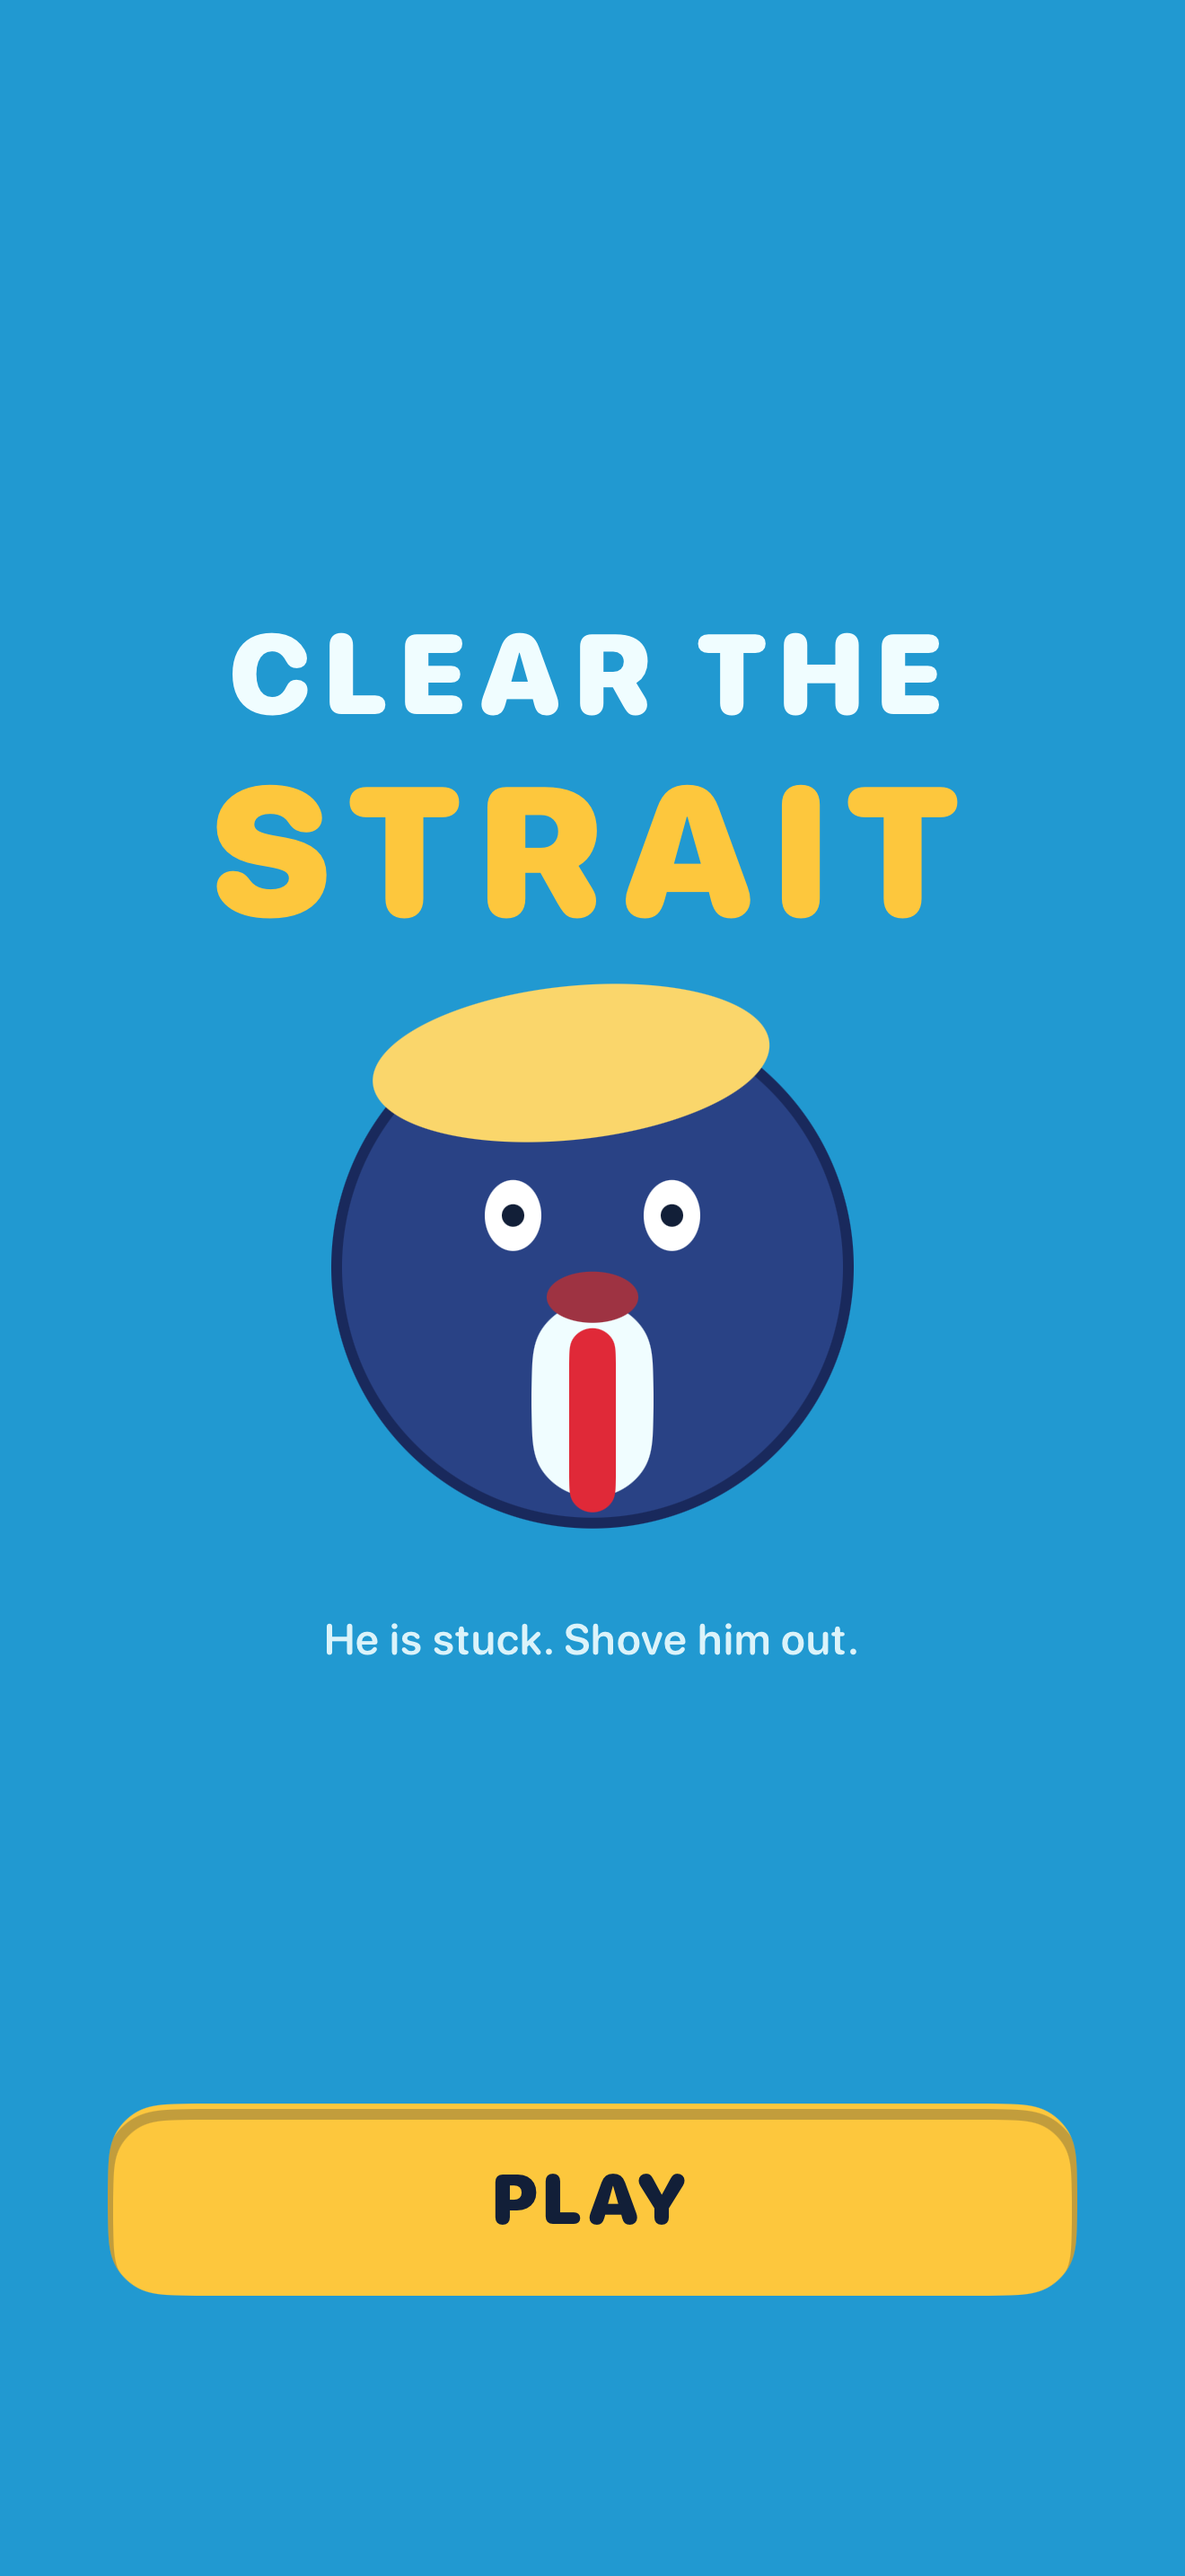
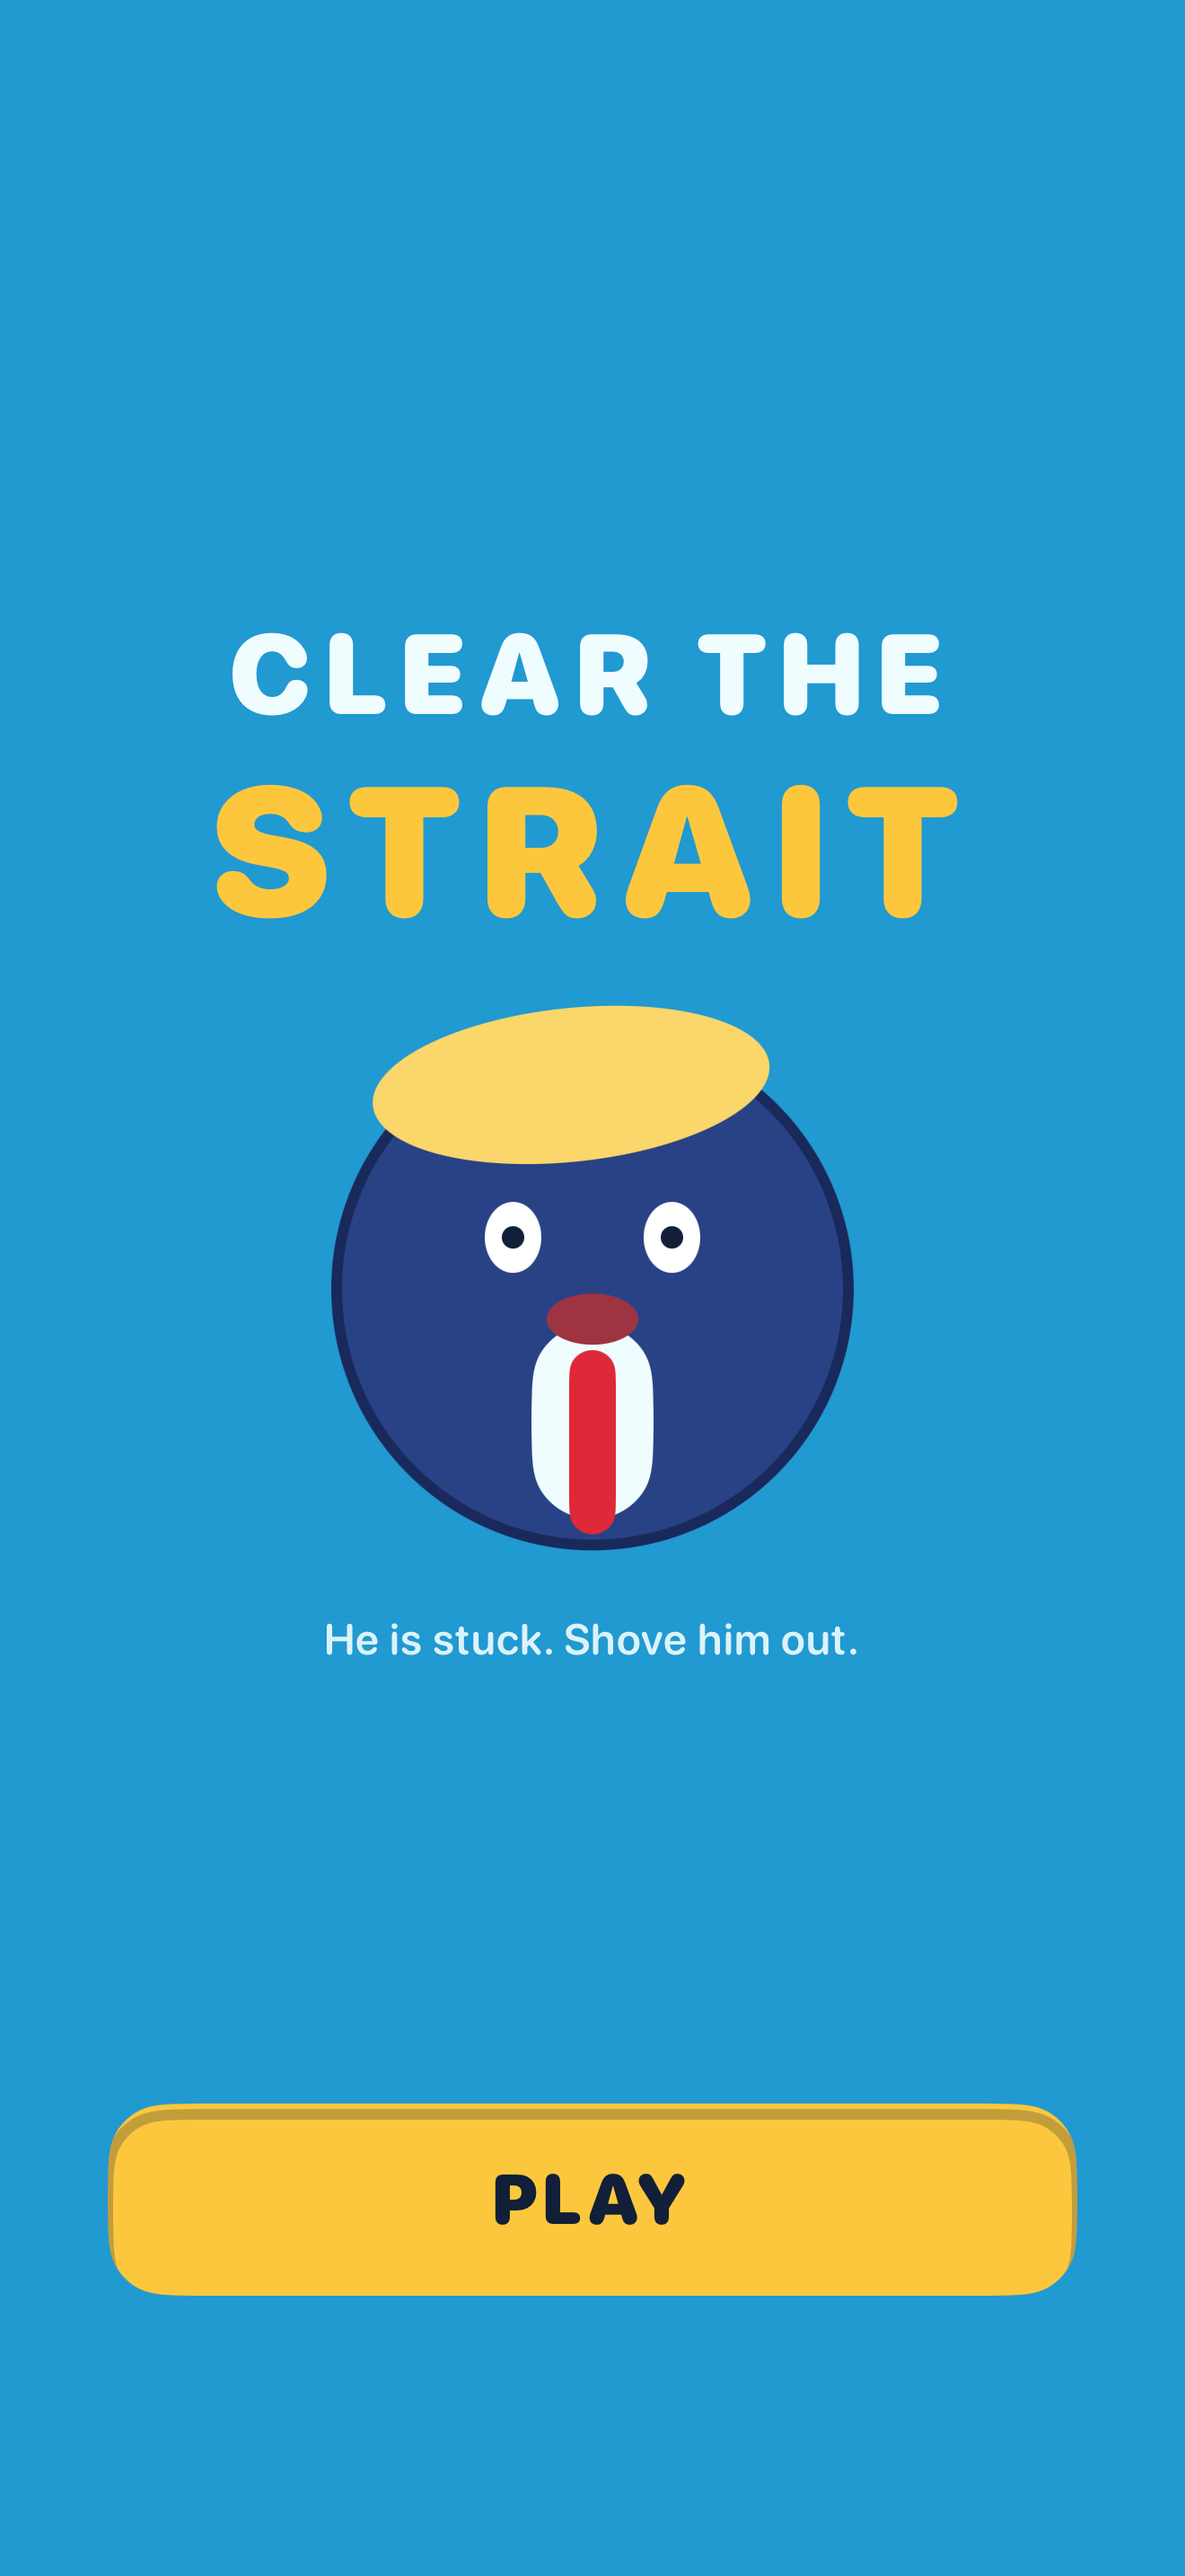
Cap how big he can get; he was inflating past the channel
At 356% ego he overflowed both shores at once, and the collision resolution
squeezed him sideways out of the pinch and half off the screen. Being nearly
too big for the channel is the joke; being bigger than the water is a bug.

Three limits: ego tops out at 250 rather than 400, the radius exponent drops
from 0.42 to 0.34 so growth is gentler, and the drawn radius is hard capped at
the channel's half gap regardless of what the ego says. Tremendous drift halved,
because 2.4 a second reached the old ceiling well before the round was over.

Claude-Session: https://claude.ai/code/session_01VXPdxMbsVPGofWZELfPevi

Changed region(s): [[0.2795, 0.3724, 0.7144, 0.6206]]

diff --git a/Sources/Game/Rules.swift b/Sources/Game/Rules.swift
@@ -155,6 +155,12 @@ struct Ego {
     private(set) var peak: Double = 100
 
     static let minimum: Double = 55
+    /// The ceiling.
+    ///
+    /// At 400 he inflated past the channel and overflowed onto the land, where
+    /// the shores squeezed him sideways out of the pinch. 250 keeps him
+    /// absurdly round while still fitting the water he is stuck in.
+    static let maximum: Double = 250
     /// Where TREMENDOUS MODE takes over.
     static let tremendousThreshold: Double = 185
 
@@ -166,7 +172,7 @@ struct Ego {
     var isTremendous: Bool { percent >= Ego.tremendousThreshold }
 
     mutating func absorb() {
-        percent = min(percent + Ego.bubbleGain, 400)
+        percent = min(percent + Ego.bubbleGain, Ego.maximum)
         peak = max(peak, percent)
     }
 
@@ -176,7 +182,7 @@ struct Ego {
 
     /// Slow drift back up, so ignoring bubbles entirely is not a strategy.
     mutating func tick(seconds: Double, phase: Phase) {
-        percent = min(percent + phase.egoDrift * seconds, 400)
+        percent = min(percent + phase.egoDrift * seconds, Ego.maximum)
         peak = max(peak, percent)
     }
 
@@ -185,7 +191,9 @@ struct Ego {
     /// Deliberately sub-linear. Ego doubling should read as visibly rounder
     /// without him filling the entire channel and hiding the ships.
     var radiusScale: Double {
-        pow(percent / 100, 0.42)
+        // Gentler than it was. At 0.42 a high ego swallowed the whole screen
+        // and hid the ships, which are the reason he is a problem.
+        pow(percent / 100, 0.34)
     }
 
     /// How much harder he is to shift.
@@ -241,7 +249,7 @@ enum Phase: Int, CaseIterable {
         case .settling: return 0
         case .ego: return 0.6
         case .traffic: return 1.1
-        case .tremendous: return 2.4
+        case .tremendous: return 1.2
         }
     }
 

diff --git a/Sources/Game/Blocker.swift b/Sources/Game/Blocker.swift
@@ -28,6 +28,14 @@ final class Blocker: SKNode {
     /// channel on a modern phone and looked like a marble in a canal.
     static var baseRadius: CGFloat = 150
 
+    /// The largest he may ever be drawn, whatever his ego says.
+    ///
+    /// Set from the channel. Without it a high ego inflated him past both
+    /// shores at once, and the collision resolution squeezed him sideways out
+    /// of the pinch and off the screen. Being *nearly* too big for the channel
+    /// is the joke; being bigger than the water is a bug.
+    static var maxRadius: CGFloat = 400
+
     /// The visual container. Squash and stretch is applied here, so the physics
     /// body is never scaled and the simulation stays stable.
     private let art = SKNode()
@@ -284,11 +292,11 @@ final class Blocker: SKNode {
     /// shores.
     func apply(ego: Ego) {
         let scale = CGFloat(ego.radiusScale)
-        let newRadius = Blocker.baseRadius * scale
+        let newRadius = min(Blocker.baseRadius * scale, Blocker.maxRadius)
         guard abs(newRadius - radius) > 0.5 else { return }
 
         radius = newRadius
-        art.setScale(scale)
+        art.setScale(newRadius / Blocker.baseRadius)
 
         let velocity = physicsBody?.velocity ?? .zero
         let angular = physicsBody?.angularVelocity ?? 0

diff --git a/Sources/Game/GameScene.swift b/Sources/Game/GameScene.swift
@@ -63,7 +63,9 @@ final class GameScene: SKScene, SKPhysicsContactDelegate {
 
         // He is sized to the channel so the wedge reads. A fixed radius made
         // him a marble in a canal on a tall phone.
-        Blocker.baseRadius = channel.halfGap * 0.80
+        Blocker.baseRadius = channel.halfGap * 0.72
+        // Never wider than the channel he is stuck in.
+        Blocker.maxRadius = channel.halfGap * 1.04
         wedgeX = size.width * 0.52
 
         blocker.position = CGPoint(x: wedgeX, y: size.height / 2)
